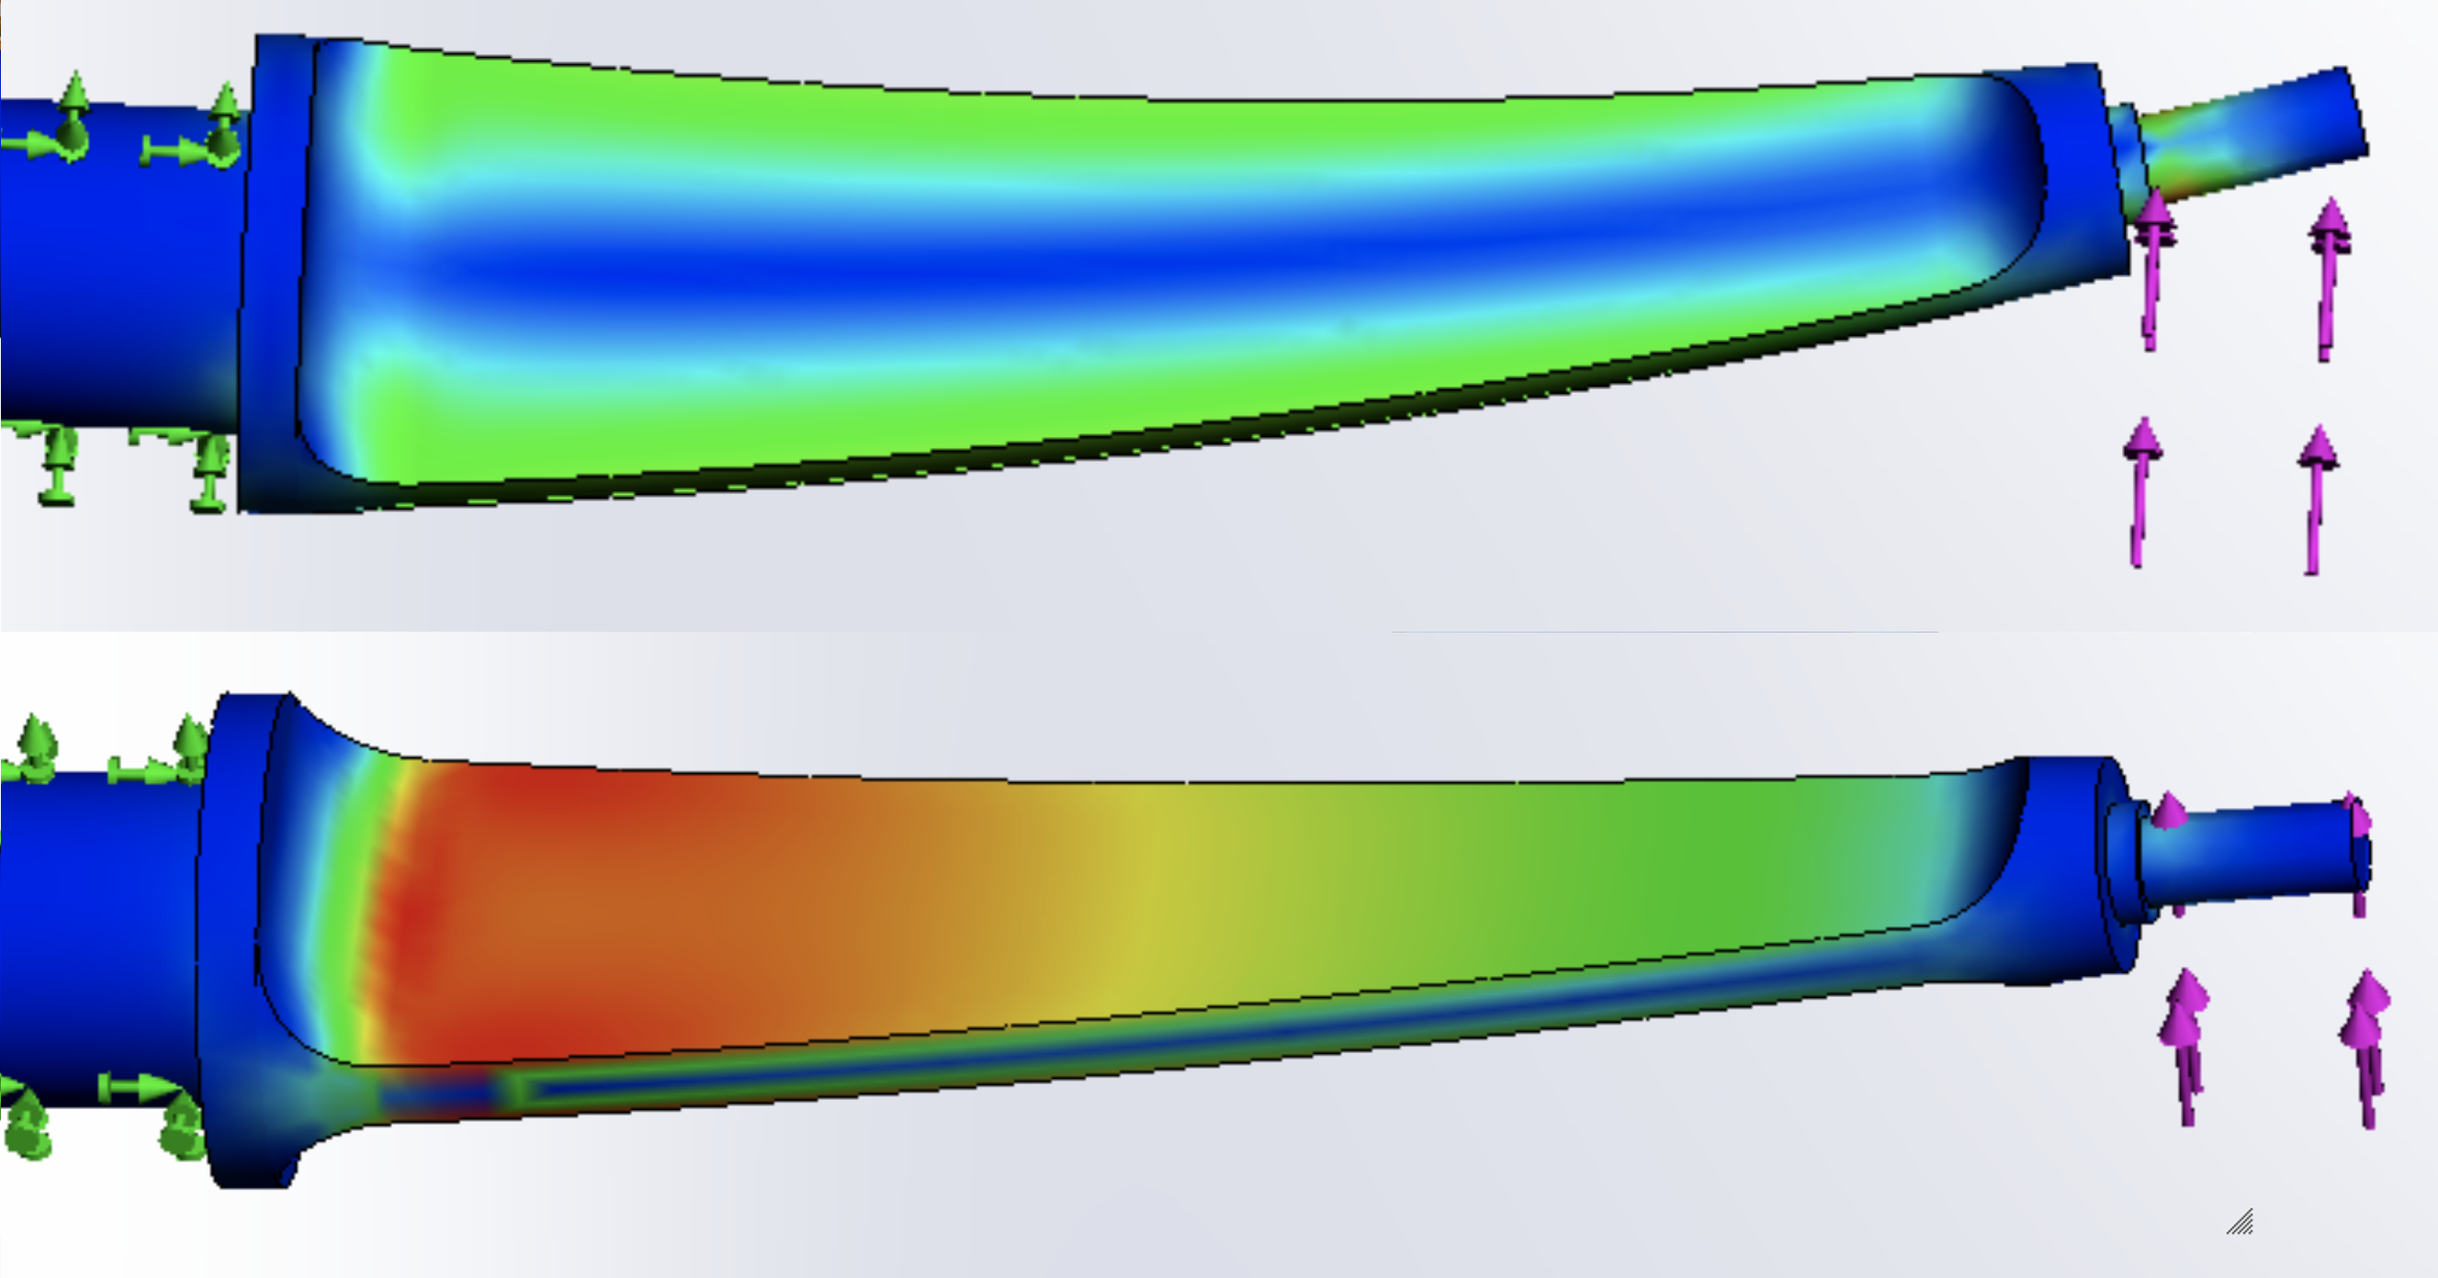
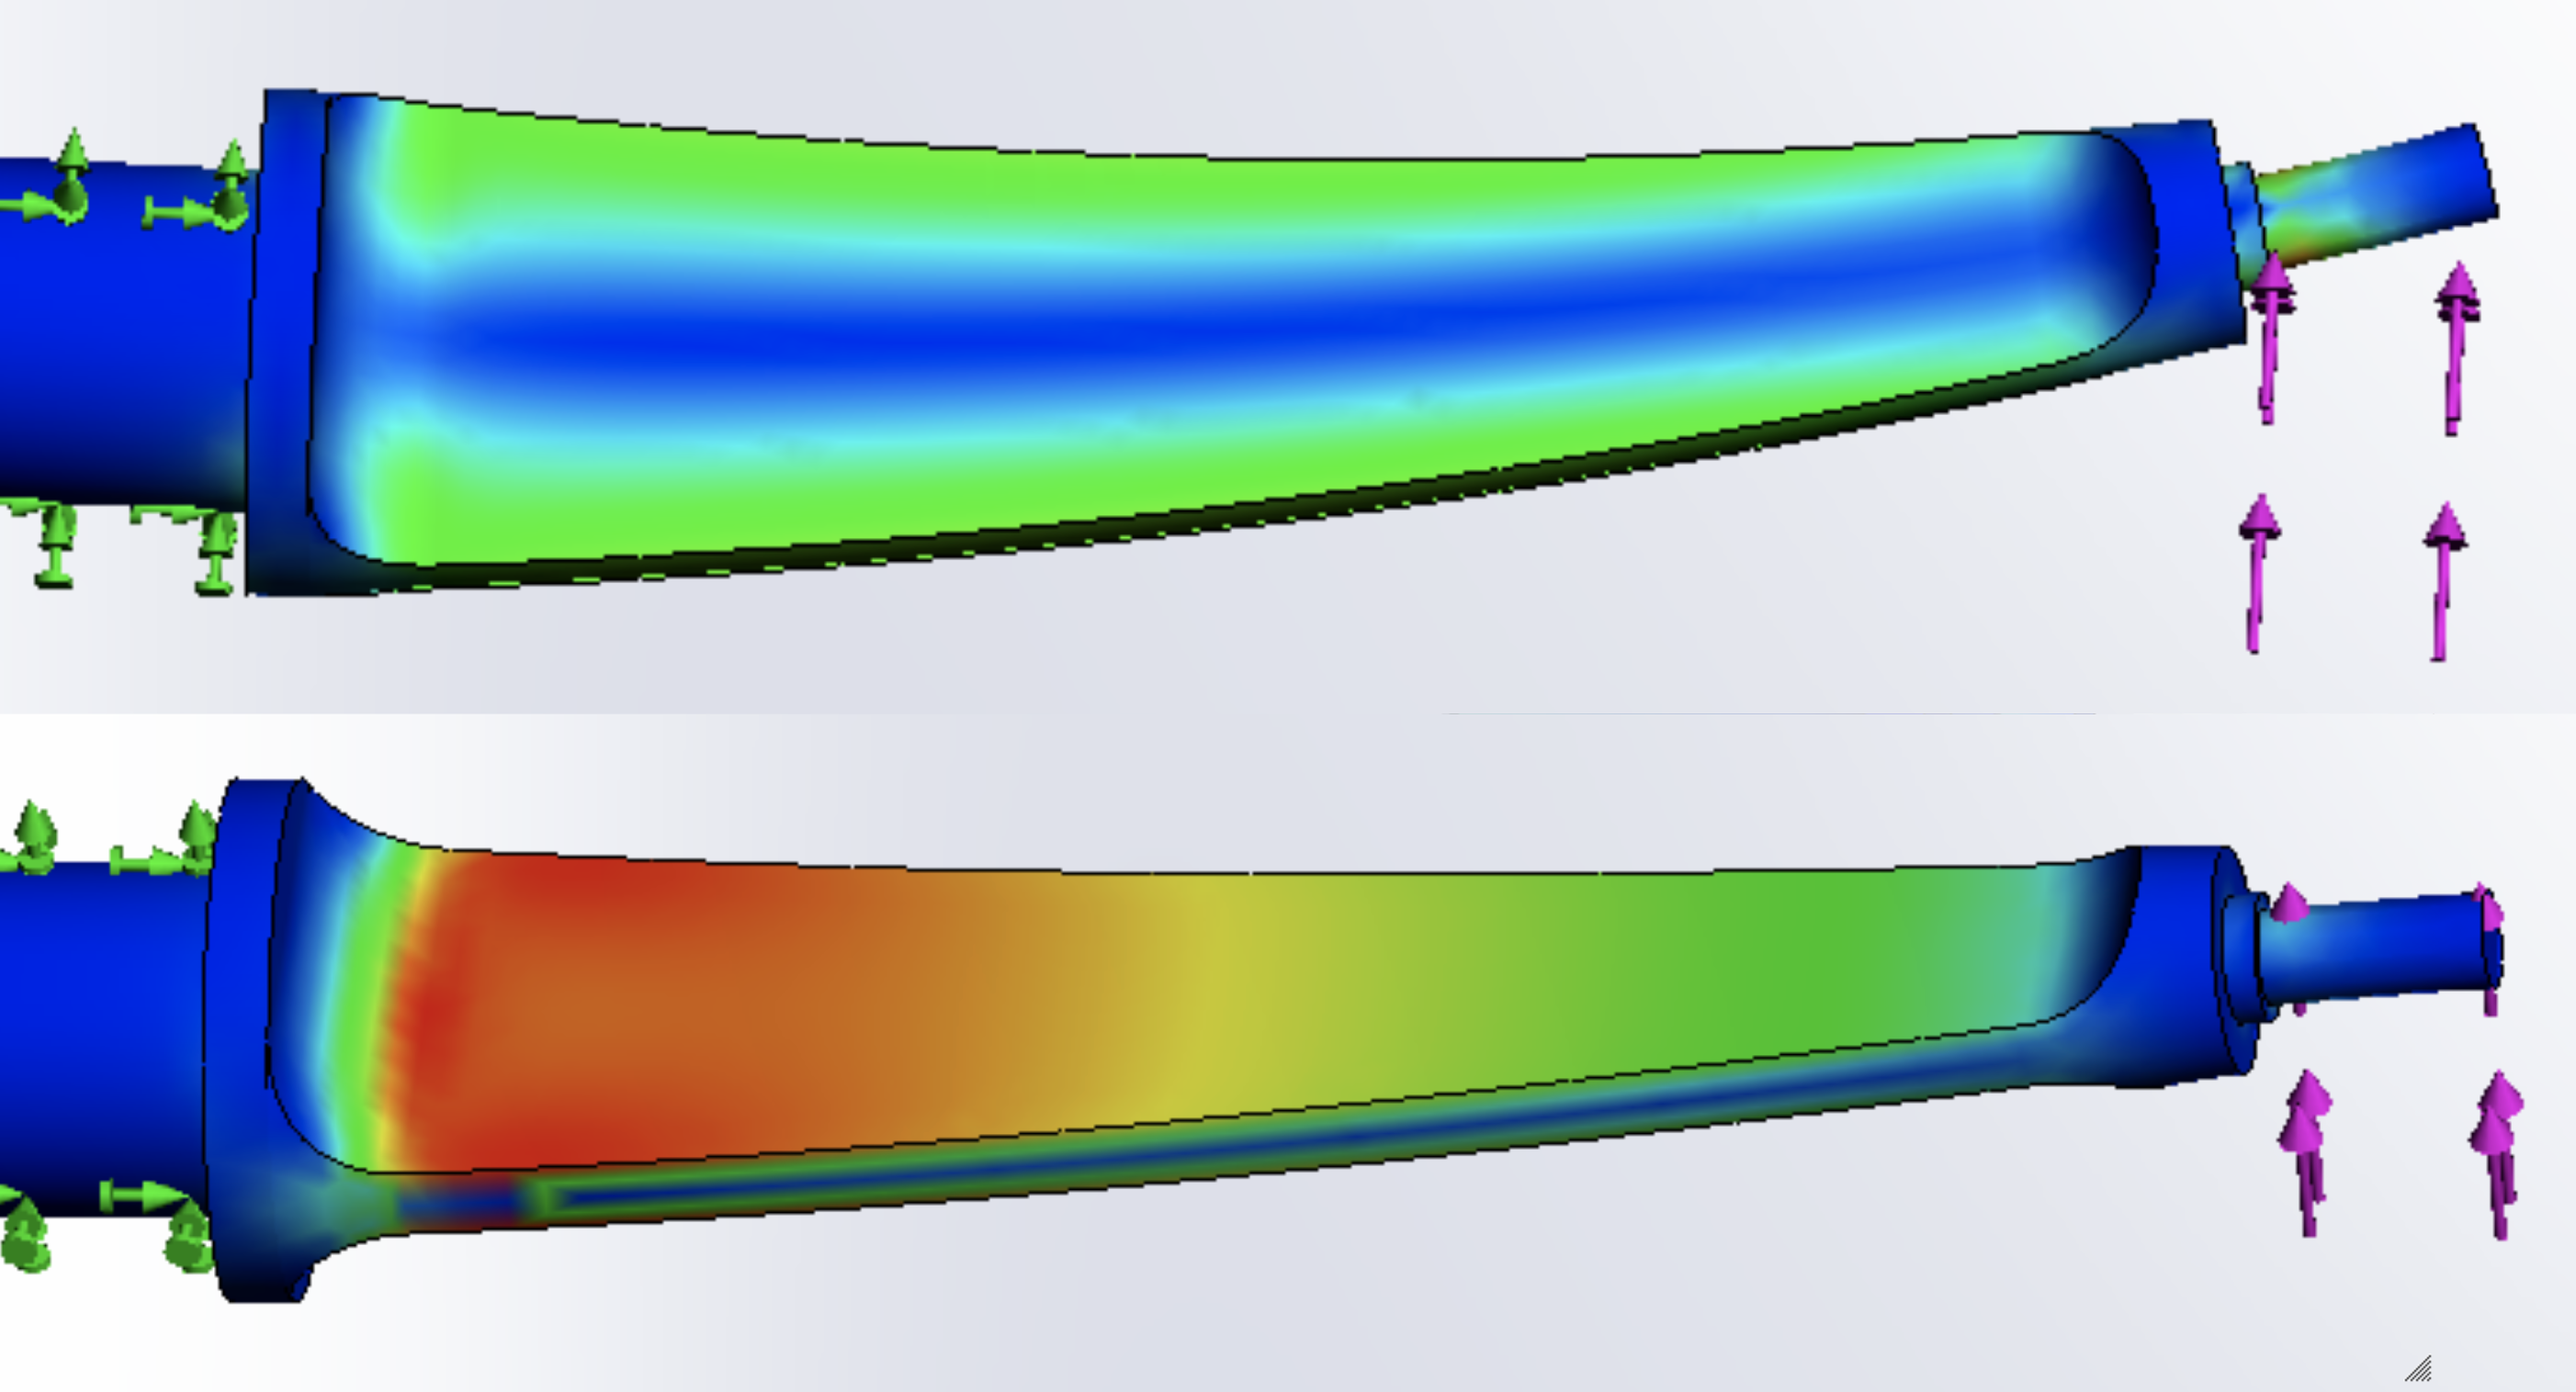
updated real formula image

diff --git a/pages/formula.html b/pages/formula.html
@@ -31,12 +31,12 @@
 							<p>The anti-roll bar(ARB) is an element within our car’s suspension that joins the left side of the suspension to the right side thus limiting our car’s body roll when turning. My partner and I were given a target stiffness, range of motion, and desired stiffness adjustability range as targets to meet in our design.</p>
 						</div>
 						<div class="image">
-							<img src="../images/formula/sus_assem.jpg" alt="" />
+							<img src="../images/formula/formula_render_and_real.png" alt="" />
 						</div>
 					</section>
 
 					<section class="spotlight style1 orient-right content-align-left image-position-center onscroll-image-fade-in">
-						<div class="content">
+						<div class="large_content">
 							<p>Our ARB has also has adjustable stiffness which can be changed by rotating the orientation of the blades thus changing the distance to the neutral bending axis.</p>
 						</div>
 						<div class="image">
